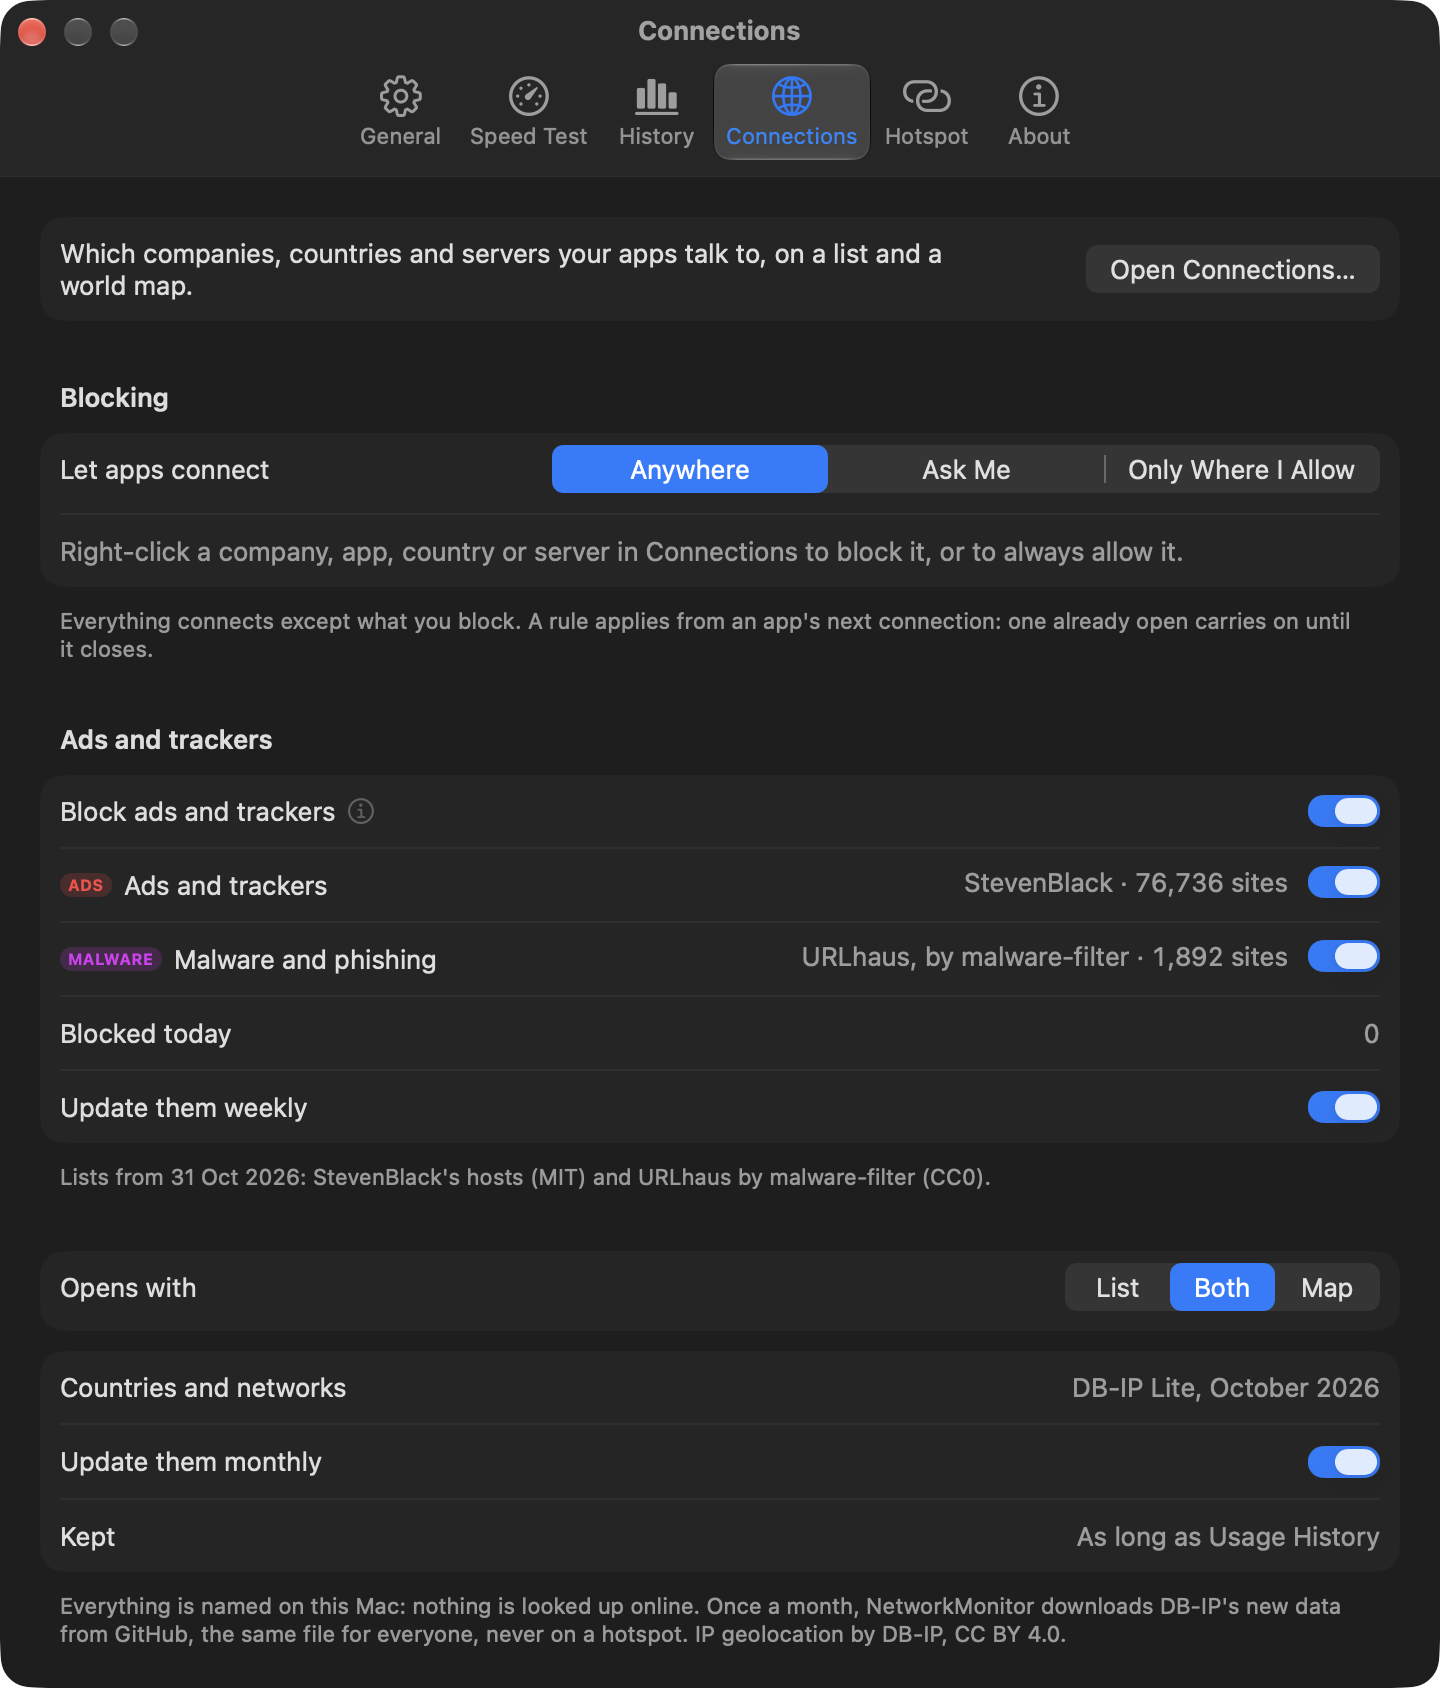
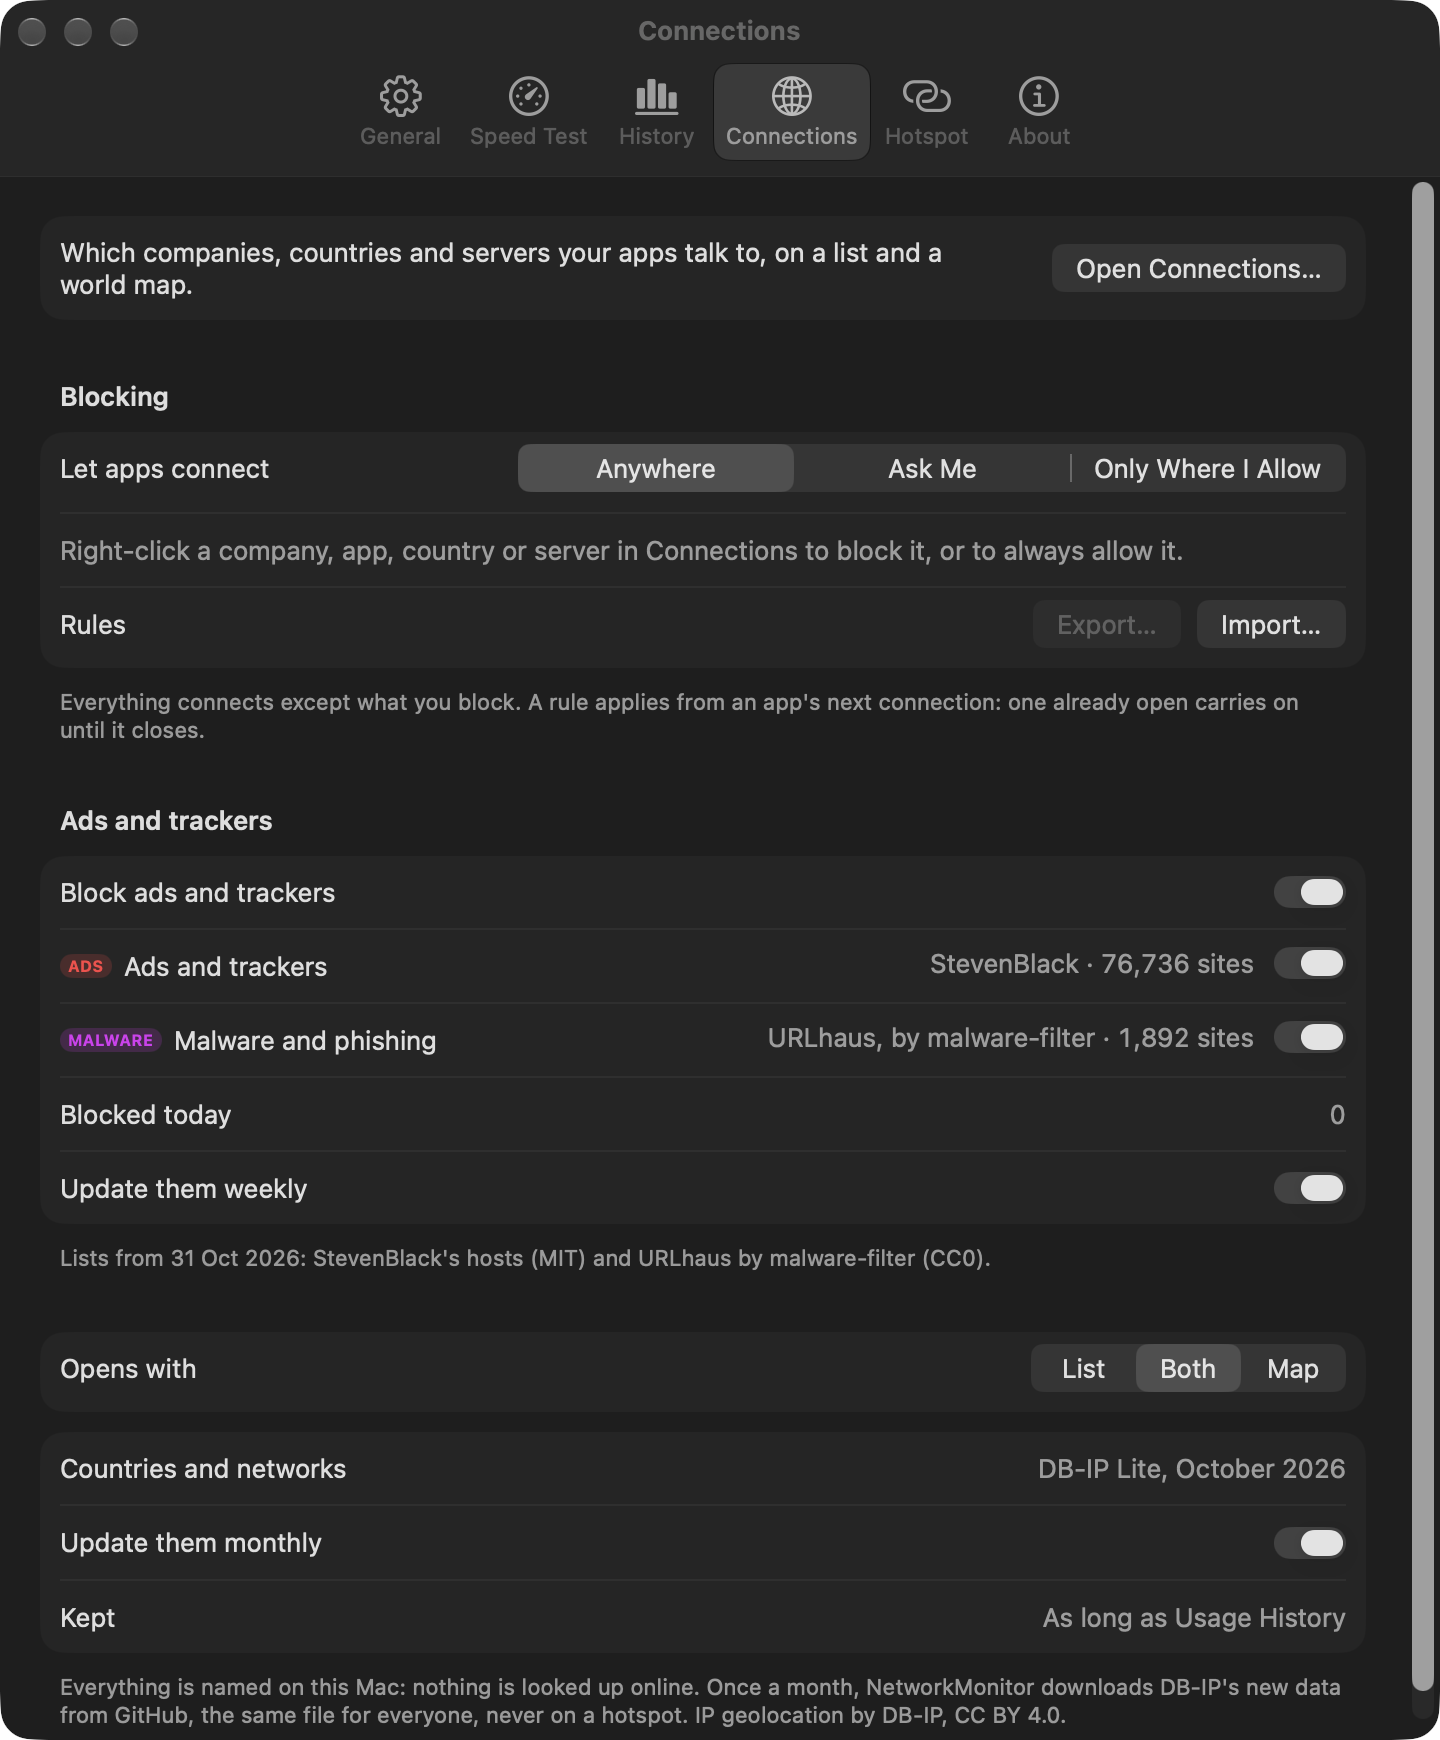
Bring the site up to 1.20.0 (#217)
Ask Me names the site and its new answers; Block what you choose gains one
network, export and import, and signatures. Settings › Connections retaken
with the Rules row, and Settings › About for 1.20.0 (122).

diff --git a/index.html b/index.html
@@ -383,7 +383,7 @@ footer a { color: var(--text-2); }
         <a class="btn" href="https://github.com/kevinabouhanna/NetworkMonitor/releases/latest/download/NetworkMonitor.dmg" data-download>Download for Mac</a>
         <a class="more" href="https://github.com/kevinabouhanna/NetworkMonitor">View on GitHub</a>
       </div>
-      <p class="hero-meta reveal d3"><span>Version 1.19.1</span><span>macOS 13 or later</span><span>Apple silicon and Intel</span><span>Free and open source</span></p>
+      <p class="hero-meta reveal d3"><span>Version 1.20.0</span><span>macOS 13 or later</span><span>Apple silicon and Intel</span><span>Free and open source</span></p>
       <div class="featured reveal d3">
         <a href="https://www.trymacapps.com" target="_blank" rel="noopener">
           <img
@@ -618,11 +618,11 @@ footer a { color: var(--text-2); }
         </div>
         <div class="reveal">
           <h3>Block what you choose.</h3>
-          <p>Right-click a company, app, country or server: <b>Block</b>, <b>Block on Hotspots</b> or <b>Always Allow</b>. A server with a name is ruled by name, or its whole site, <em>*.doubleclick.net</em>. The narrowest rule wins, so blocking Meta while allowing WhatsApp does what you’d expect. Settings lists every rule, and <b>Show: Blocked</b> lists what was stopped.</p>
+          <p>Right-click a company, app, country or server: <b>Block</b>, <b>Block on Hotspots</b>, <b>Block on</b> the network you’re on, or <b>Always Allow</b>. A server with a name is ruled by name, or its whole site, <em>*.doubleclick.net</em>. The narrowest rule wins, so blocking Meta while allowing WhatsApp does what you’d expect. A rule for an app follows its signature, so nothing put in its place inherits it. Settings lists every rule, exports them for another Mac, and <b>Show: Blocked</b> lists what was stopped.</p>
         </div>
         <div class="reveal">
           <h3>Or have it ask.</h3>
-          <p>Choose <b>Ask Me</b> and a small panel asks the first time an app reaches a company: Block, Allow Once or Always Allow. Unanswered in 30 seconds, it goes ahead. Or <b>Only Where I Allow</b>. The local network, looking up names and the clock are never blocked, and macOS is never asked about.</p>
+          <p>Choose <b>Ask Me</b> and a small panel asks the first time an app reaches a company, naming the site: <em>Figma wants to connect to api.segment.io</em>. Answer for that site or the whole company, and allow it once, until the app quits, or always. Unanswered in 30 seconds, it goes ahead. Or <b>Only Where I Allow</b>. The local network, looking up names and the clock are never blocked, and macOS is never asked about.</p>
         </div>
         <div class="reveal">
           <h3>Ads and trackers, gone.</h3>
@@ -710,8 +710,8 @@ footer a { color: var(--text-2); }
                  alt="The Speed Test pane: Test your internet speed, with a Test Now button. A note says it runs macOS's built-in networkQuality only when you start it, download first, then upload, typically using 50 to 500 MB. Show the test in the popover as Card or Compact, with Card chosen.">
             <img class="prefs-shot" data-shot="history" data-w="720" data-h="785" src="assets/settings/history.png" width="1440" height="1570" loading="lazy" aria-hidden="true"
                  alt="The History pane on Today, with Day, Week, Month and Year, a ‹ Today › stepper, and All, Wi‑Fi and Hotspot. 1.5 GB used, all over Wi‑Fi, in a bar chart by the hour that peaks at about 740 MB at noon. Below it, Apps, biggest first: Software Update 522.3 MB, Google Chrome 320.5 MB, iTerm2 166.6 MB, Slack 133.8 MB, Xcode 86.4 MB, WhatsApp 76.5 MB and GoogleUpdater 38.9 MB. Networks and Sessions are the other two lists. Keep history for Forever, with Clear History… and Export CSV… buttons.">
-            <img class="prefs-shot" data-shot="connections" data-w="720" data-h="844" src="assets/settings/connections.png" width="1440" height="1688" loading="lazy" aria-hidden="true"
-                 alt="The Connections pane. Which companies, countries and servers your apps talk to, on a list and a world map, with an Open Connections… button. Under Blocking, Let apps connect offers Anywhere, Ask Me and Only Where I Allow, with Anywhere chosen; right-click a company, app, country or server in Connections to block it, or to always allow it. Under Ads and trackers, Block ads and trackers is on, with two lists, each switched on: ADS, Ads and trackers, StevenBlack, 76,736 sites; MALWARE, Malware and phishing, URLhaus by malware-filter, 1,892 sites. Blocked today 0, and Update them weekly on, with lists from 31 Oct 2026. Opens with List, Both or Map, with Both chosen. Countries and networks: DB-IP Lite, October 2026, Update them monthly, switched on, and Kept as long as Usage History.">
+            <img class="prefs-shot" data-shot="connections" data-w="720" data-h="870" src="assets/settings/connections.png" width="1440" height="1740" loading="lazy" aria-hidden="true"
+                 alt="The Connections pane. Which companies, countries and servers your apps talk to, on a list and a world map, with an Open Connections… button. Under Blocking, Let apps connect offers Anywhere, Ask Me and Only Where I Allow, with Anywhere chosen; right-click a company, app, country or server in Connections to block it, or to always allow it. Rules, with Export… and Import… buttons. Under Ads and trackers, Block ads and trackers is on, with two lists, each switched on: ADS, Ads and trackers, StevenBlack, 76,736 sites; MALWARE, Malware and phishing, URLhaus by malware-filter, 1,892 sites. Blocked today 0, and Update them weekly on, with lists from 31 Oct 2026. Opens with List, Both or Map, with Both chosen. Countries and networks: DB-IP Lite, October 2026, Update them monthly, switched on, and Kept as long as Usage History.">
             <img class="prefs-shot" data-shot="hotspot" data-w="720" data-h="704" src="assets/settings/hotspot.png" width="1440" height="1408" loading="lazy" aria-hidden="true"
                  alt="The Hotspot pane. Stop apps updating on hotspots is on, and right now this doesn't look like a hotspot. This network is set to Detect automatically, with Is a hotspot and Isn't a hotspot to choose from. Paused on a hotspot (13) and Can't be paused (3) are both closed. Every app's updater: Stopped on hotspots. Got through on your last metered connection, in orange as both were paused: Slack downloaded an update anyway, up to 271.6 MB, and Google Chrome downloaded an update anyway, 265.6 MB.">
             <img class="prefs-shot" data-shot="hotspot-apps" data-w="720" data-h="870" src="assets/settings/hotspot-apps.png" width="1440" height="1740" loading="lazy" aria-hidden="true"
@@ -719,7 +719,7 @@ footer a { color: var(--text-2); }
             <img class="prefs-shot" data-shot="hotspot-uncovered" data-w="720" data-h="798" src="assets/settings/hotspot-uncovered.png" width="1440" height="1596" loading="lazy" aria-hidden="true"
                  alt="The Hotspot pane with Can't be paused (3) open, one line per app: OmniDiskSweeper, Opera and Raycast, with why behind an ⓘ that appears when you point at the row. Every app's updater: Stopped on hotspots, including ones listed as can't be paused when they update with a program of their own. Got through on your last metered connection, in orange: Slack downloaded an update anyway, up to 271.6 MB, and Google Chrome downloaded an update anyway, 265.6 MB.">
             <img class="prefs-shot" data-shot="about" data-w="720" data-h="710" src="assets/settings/about.png" width="1440" height="1420" loading="lazy" aria-hidden="true"
-                 alt="The About pane: the NetworkMonitor icon, Version 1.19.1 (117), and Live network speed in your menu bar, and which app used your data. Links to the website, the release notes and the source code on GitHub. Free and open source, under the MIT licence. Check for updates automatically is on, with a Check Now button: once a day it asks GitHub whether there's a newer version, never on a hotspot, and an update installs only when you say so, and only if it's signed by NetworkMonitor. Remove NetworkMonitor, with an Uninstall… button.">
+                 alt="The About pane: the NetworkMonitor icon, Version 1.20.0 (122), and Live network speed in your menu bar, and which app used your data. Links to the website, the release notes and the source code on GitHub. Free and open source, under the MIT licence. Check for updates automatically is on, with a Check Now button: once a day it asks GitHub whether there's a newer version, never on a hotspot, and an update installs only when you say so, and only if it's signed by NetworkMonitor. Remove NetworkMonitor, with an Uninstall… button.">
             <button class="prefs-row" type="button" aria-expanded="false" data-row="apps" style="--x:-340;--y:274;--w:680;--h:44" hidden>Paused on a hotspot</button>
             <button class="prefs-row" type="button" aria-expanded="false" data-row="uncovered" style="--x:-340;--y:372;--w:680;--h:44" hidden>Can’t be paused</button>
             <a class="prefs-link" href="#top" style="--x:150;--y:319;--w:182;--h:30" hidden>Website</a>
@@ -776,7 +776,7 @@ footer a { color: var(--text-2); }
           <p>The usual Mac way: open the disk image and drag NetworkMonitor into <strong>Applications</strong>.</p>
           <div class="get">
             <a class="btn" href="https://github.com/kevinabouhanna/NetworkMonitor/releases/latest/download/NetworkMonitor.dmg" data-download>Download NetworkMonitor.dmg</a>
-            <span class="meta">Version 1.19.1 · 12.2 MB · Universal</span>
+            <span class="meta">Version 1.20.0 · 12.3 MB · Universal</span>
           </div>
           <figure class="dmg-shot" style="margin-bottom:0">
             <img src="assets/dmg-window.png" width="1424" height="1104" loading="lazy"
@@ -793,7 +793,7 @@ footer a { color: var(--text-2); }
       </div>
 
       <div class="ctas reveal">
-        <a class="more" href="https://github.com/kevinabouhanna/NetworkMonitor/releases/tag/v1.19.1">What’s in version 1.19.1</a>
+        <a class="more" href="https://github.com/kevinabouhanna/NetworkMonitor/releases/tag/v1.20.0">What’s in version 1.20.0</a>
         <a class="more" href="https://github.com/kevinabouhanna/NetworkMonitor/wiki">Documentation</a>
         <a class="more" href="https://github.com/kevinabouhanna/NetworkMonitor">View on GitHub</a>
       </div>
